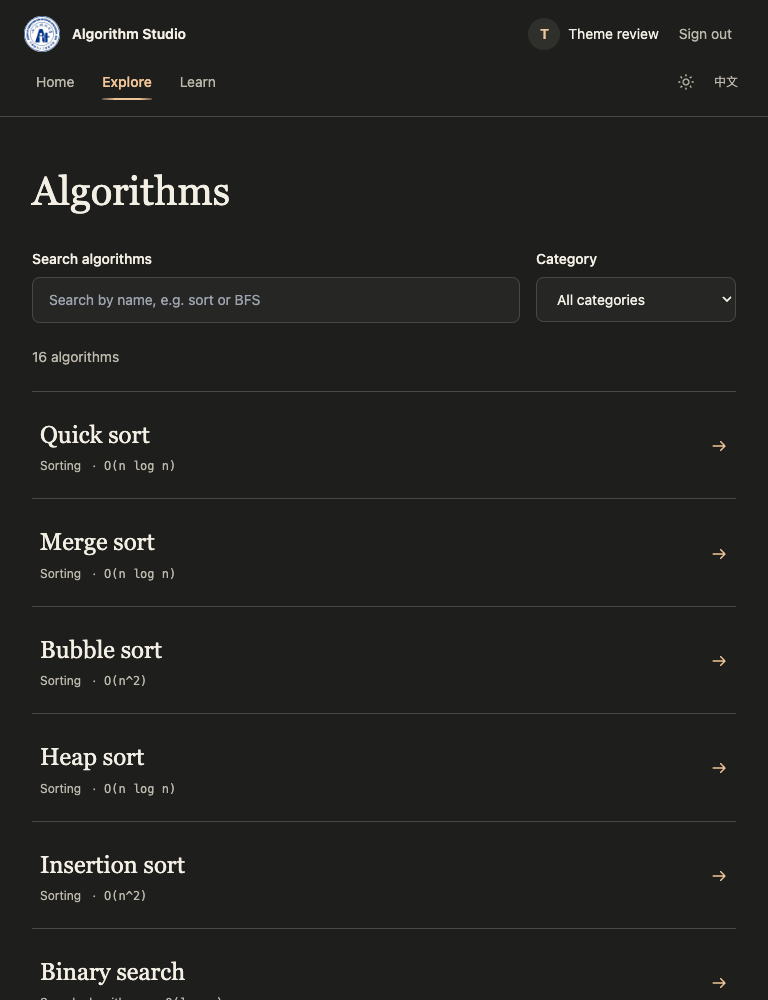
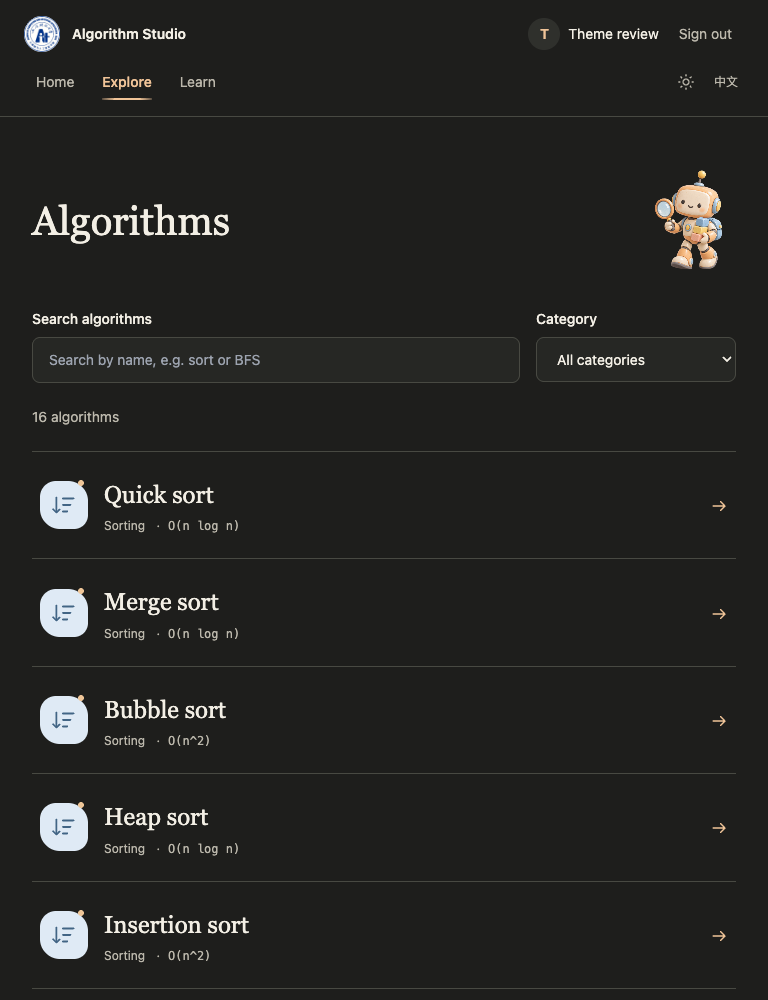
feat(ui): add original algorithm garden artwork and illustrated categories (#5)

diff --git a/frontend/src/styles.css b/frontend/src/styles.css
@@ -316,3 +316,47 @@ html[lang='en'] .control-progress { min-width: 120px; }
   .learning-heading { padding: 16px; }
 }
 @media (prefers-reduced-motion: reduce) { .algorithm-dropdown { animation: none; } }
+
+/* Original algorithm garden artwork and illustrated category marks. */
+.illustrated-hero { position: relative; isolation: isolate; overflow: hidden; border-radius: 12px; color: #263642; --ink: 38 54 66; --muted: 58 76 89; --accent-ink: 121 77 43; }
+.hero-art { position: absolute; inset: 0; z-index: -1; width: 100%; height: 100%; object-fit: cover; pointer-events: none; }
+.home-hero.illustrated-hero { display: flex; min-height: 440px; padding: 48px; margin: 0 0 32px; align-items: center; }
+.illustrated-hero .hero-copy { max-width: 560px; }
+.illustrated-hero .button-primary { color: #382719; background: #f6d2ae; }
+.illustrated-hero .text-link { color: #263642; }
+.home-lab { display: grid; grid-template-columns: minmax(0, .65fr) minmax(0, 1fr); gap: 48px; align-items: center; max-width: 880px; margin: 0 auto 32px; }
+.explorer-art { width: 200px; height: 260px; object-fit: contain; justify-self: center; }
+.home-lab .swap-playground { width: 100%; padding: 24px 0; }
+.auth-intro.illustrated-hero { padding: 32px; min-height: 540px; display: flex; flex-direction: column; justify-content: center; }
+.auth-intro .hero-art { object-position: 35% center; opacity: .8; }
+.auth-intro.illustrated-hero { background: #dceaf4; }
+.auth-intro .auth-equation { --viz-neutral: 223 234 245; --viz-compare: 255 240 190; --viz-swap: 228 215 236; position: relative; width: fit-content; background: rgb(255 254 251 / .88); border-radius: 12px; padding: 12px; gap: 8px; }
+.catalog-heading { display: flex; align-items: center; justify-content: space-between; gap: 24px; }
+.catalog-heading img { width: 88px; height: 112px; object-fit: contain; }
+.category-art { position: relative; display: inline-flex; align-items: center; justify-content: center; flex-shrink: 0; width: 48px; height: 48px; border-radius: 16px 20px 14px 20px; background: #dfeaf5; color: #426585; border: 1px solid rgb(66 101 133 / .12); }
+.category-art::after { content: ''; position: absolute; width: 6px; height: 6px; top: -2px; right: 3px; border-radius: 50%; background: #efc698; }
+.category-art app-ui-icon, .category-art app-ui-icon svg { width: 26px; height: 26px; color: inherit; }
+.category-art[data-art='search'], .category-art[data-art='cube'] { background: #f8dfbf; color: #85532c; }
+.category-art[data-art='target'], .category-art[data-art='branch'] { background: #e4d9ed; color: #755980; }
+.category-art[data-art='graph'], .category-art[data-art='backtrack'] { background: #e1ecda; color: #526f4e; }
+.category-art[data-art='grid'] { background: #faeec6; color: #806628; }
+.catalog-row { grid-template-columns: auto minmax(0, 1fr) auto; gap: 16px; }
+html[data-theme='dark'] .category-art { border-color: transparent; }
+@media (max-width: 1023px) {
+  .auth-intro.illustrated-hero { min-height: 360px; }
+}
+@media (max-width: 600px) {
+  .home-hero.illustrated-hero { min-height: 470px; padding: 24px; align-items: flex-start; }
+  .home-hero .hero-art { object-position: 65% center; opacity: .6; }
+  .home-hero.illustrated-hero { background: #dceaf4; }
+  .home-hero .hero-copy { position: relative; padding-bottom: 96px; }
+  .home-hero .hero-copy .mt-8 { margin-top: 24px; gap: 16px; }
+  .home-lab { grid-template-columns: minmax(0, 1fr); gap: 0; }
+  .explorer-art { width: 72px; height: 96px; justify-self: end; margin-bottom: 12px; }
+  .home-lab .swap-playground { padding-top: 0; }
+  .auth-intro.illustrated-hero { padding: 24px; min-height: 360px; }
+  .auth-intro .auth-equation { font-size: 18px; gap: 4px; }
+  .category-art { width: 36px; height: 36px; border-radius: 12px 16px 12px 16px; }
+  .category-art app-ui-icon, .category-art app-ui-icon svg { width: 22px; height: 22px; }
+  .catalog-row { gap: 12px; }
+}

diff --git a/frontend/src/app/components/learning-home/learning-home.component.html b/frontend/src/app/components/learning-home/learning-home.component.html
@@ -1,5 +1,6 @@
 <div class="page-content home-page">
-  <section class="home-hero">
+  <section class="home-hero illustrated-hero">
+    <img class="hero-art" src="assets/illustrations/algorithm-garden.png" width="1536" height="1024" alt="" fetchpriority="high">
     <div class="hero-copy">
       <p class="hero-count"><span class="math-type">{{ entryCount }}</span> {{ '个算法与数据结构演示' | t }}</p>
       <h2 class="display-title">{{ '看懂算法的' | t }}<br><span class="title-underline">{{ '每一步' | t }}<svg viewBox="0 0 240 14" aria-hidden="true"><path d="M3 9 Q 94 0 237 7 M19 13 Q 135 5 217 11" /></svg></span></h2>
@@ -8,6 +9,9 @@
         <button class="text-link" (click)="learn.emit('bubble-sort')">{{ '从冒泡排序开始' | t }} <app-ui-icon name="arrow-right" /></button>
       </div>
     </div>
+  </section>
+  <section class="home-lab">
+    <img class="explorer-art" src="assets/illustrations/algorithm-explorer.png" width="1024" height="1536" alt="" loading="lazy" decoding="async">
     <figure class="swap-playground" [attr.aria-label]="'冒泡排序的一次相邻交换' | t">
       <figcaption class="flex items-center justify-between gap-3 text-sm text-muted"><span>{{ '冒泡排序' | t }}</span><span class="math-type">28 &gt; 20</span></figcaption>
       <div class="swap-bars" role="img" [attr.aria-label]="(swapped ? '16、20、28、10、32，已交换，数组尚未排完' : '16、28、20、10、32，等待交换 28 和 20') | t">
@@ -37,7 +41,7 @@
     <h3 class="section-title mb-6">{{ '按分类查看' | t }}</h3>
     <div class="grid grid-cols-2 gap-x-6 sm:grid-cols-4">
       <button *ngFor="let group of groups" class="category-link flex items-center justify-between gap-2 border-b border-line py-4 text-left text-sm hover:text-accent-ink" (click)="browse.emit(group.category)">
-        <span class="inline-flex items-center gap-3"><app-ui-icon [name]="group.icon" />{{ (group.category === 'Web3D' ? '3D 数据结构' : group.category) | t }}</span><span class="math-type text-xs text-muted">{{ group.items.length }}</span>
+        <span class="inline-flex items-center gap-3"><span class="category-art" [attr.data-art]="group.icon"><app-ui-icon [name]="group.icon" /></span>{{ (group.category === 'Web3D' ? '3D 数据结构' : group.category) | t }}</span><span class="math-type text-xs text-muted">{{ group.items.length }}</span>
       </button>
     </div>
   </section>

diff --git a/frontend/src/app/components/algorithm-catalog/algorithm-catalog.component.html b/frontend/src/app/components/algorithm-catalog/algorithm-catalog.component.html
@@ -1,6 +1,6 @@
 <div class="page-content catalog-page">
 
-  <h2 class="page-title">{{ '算法目录' | t }}</h2>
+  <div class="catalog-heading"><h2 class="page-title">{{ '算法目录' | t }}</h2><img src="assets/illustrations/algorithm-explorer.png" width="96" height="128" alt="" decoding="async"></div>
 
   <div class="mt-8 grid gap-4 sm:grid-cols-[1fr_200px]">
     <div><label for="catalog-search" class="mb-2 block text-sm font-medium">{{ '搜索算法' | t }}</label><input id="catalog-search" type="search" [ngModel]="query()" (ngModelChange)="query.set($event)" [attr.placeholder]="'搜索名称，如：排序、BFS' | t" class="w-full rounded-md border border-line bg-surface px-4 py-3 text-sm"></div>
@@ -9,6 +9,7 @@
   <div class="my-6 flex items-center justify-between gap-3 text-sm text-muted"><p role="status">{{ '{0} 个算法' | t:[(filtered().length)] }}</p><button *ngIf="query() || category()" (click)="clear()" class="text-accent-ink underline underline-offset-4">{{ '清除筛选' | t }}</button></div>
   <div class="catalog-list">
     <button *ngFor="let item of filtered()" (click)="learn.emit(item.id)" class="catalog-row">
+      <span class="category-art" [attr.data-art]="item.icon"><app-ui-icon [name]="item.icon" /></span>
       <div class="min-w-0"><h3 class="catalog-title">{{ (item.label) | t }}</h3><p class="mt-1 text-xs text-muted">{{ (item.category === 'Web3D' ? '3D 数据结构' : item.category) | t }} <span class="mx-2" aria-hidden="true">·</span><span class="font-mono">{{ item.complexity }}</span></p></div>
       <span class="text-accent-ink"><app-ui-icon name="arrow-right" /></span>
     </button>

diff --git a/frontend/src/app/components/auth/auth.component.html b/frontend/src/app/components/auth/auth.component.html
@@ -1,6 +1,7 @@
 <div class="auth-preferences"><app-display-preferences /></div>
 <main class="auth-layout">
-  <section class="auth-intro">
+  <section class="auth-intro illustrated-hero">
+    <img class="hero-art" src="assets/illustrations/algorithm-garden.png" width="1536" height="1024" alt="" fetchpriority="high">
     <div class="mb-8 flex items-center gap-3"><span class="college-emblem college-emblem-large"><img src="assets/branding/college-logo.png" width="514" height="84" [attr.alt]="'计算机与人工智能学院院徽' | t"></span><h1 class="text-base font-semibold">{{ '算法可视化学习平台' | t }}</h1></div>
 
     <h2 class="display-title">{{ '看懂算法的' | t }}<br><span class="title-underline">{{ '每一步' | t }}<svg viewBox="0 0 240 14" aria-hidden="true"><path d="M3 9 Q 94 0 237 7 M19 13 Q 135 5 217 11" /></svg></span></h2>

diff --git a/frontend/src/app/components/algorithm-catalog/algorithm-catalog.component.ts b/frontend/src/app/components/algorithm-catalog/algorithm-catalog.component.ts
@@ -15,7 +15,7 @@ import { AlgorithmId } from '../../models/algorithm.models';
 })
 export class AlgorithmCatalogComponent {
   readonly groups = ALGORITHM_GROUPS;
-  readonly entries = ALGORITHM_GROUPS.flatMap(group => group.items.map(item => ({ ...item, category: group.category })));
+  readonly entries = ALGORITHM_GROUPS.flatMap(group => group.items.map(item => ({ ...item, category: group.category, icon: group.icon })));
   readonly query = signal('');
   readonly category = signal('');
   @Input() set initialCategory(value: string) { this.category.set(value); }

diff --git a/frontend/src/assets/illustrations/GARDEN-PROMPTS.md b/frontend/src/assets/illustrations/GARDEN-PROMPTS.md
@@ -1,0 +1,11 @@
+# Algorithm garden assets
+
+Generated with the built-in image_gen tool on 2026-09-09. Original outputs copied into this directory; no external image service is required at runtime. Both images are decorative; interface text remains HTML and supports Chinese/English. The existing school emblem is unchanged. Category marks use the existing local SVG icon component with eight pastel treatments.
+
+## algorithm-garden.png
+
+Use case: stylized-concept. Asset type: wide landscape hero illustration for an algorithm learning website. Create an original beautifully art-directed dreamy 'algorithm garden in the clouds': soft powder-blue sky, warm ivory and pale apricot clouds, a small moon, floating pastel ceramic islands on the right containing ascending rounded sorting bars, a branching tree of connected spheres and a tiny winding maze. Charming subtle storybook/3D clay hybrid illustration, sophisticated university educational website, calm and playful, not childish clipart. Wide 3:2 composition. Left half mostly open quiet pale blue sky for dark heading overlay, important subject concentrated right and lower right. Palette powder blue, apricot, butter yellow, muted lilac and sage. Soft daylight, crisp readable silhouettes. No text, letters, numbers, logo, watermark, UI or borders. This is background artwork, not a website screenshot.
+
+## algorithm-explorer.png
+
+Use case: stylized-concept. Asset type: transparent decorative mascot for an algorithm learning website. An original small friendly apricot ceramic robot explorer, rounded square head, two tiny charcoal dot eyes, small smile, powder blue tiny backpack, holding a magnifying glass with one hand and a small stack of three pastel sorting blocks with the other. Full body three-quarter view. Premium charming clay storybook illustration, soft ivory highlights, muted apricot, pale blue and butter yellow. Simple bold silhouette readable at 100 pixels. Centered with generous clear margins. Genuine transparent background, no ground plane, no backdrop, no lettering, no logo, no watermark. Not a known brand character.

diff --git a/docs/issue-5-delivery.md b/docs/issue-5-delivery.md
@@ -149,3 +149,13 @@ npm run test:e2e
 | 390px | [展开菜单](screenshots/issue-5/top-navigation/menu-light-zh-390.png) | [展开菜单](screenshots/issue-5/top-navigation/menu-dark-en-390.png) |
 | 768px | [展开菜单](screenshots/issue-5/top-navigation/menu-light-zh-768.png) | [展开菜单](screenshots/issue-5/top-navigation/menu-dark-en-768.png) |
 | 1440px | [展开菜单](screenshots/issue-5/top-navigation/menu-light-zh-1440.png) | [展开菜单](screenshots/issue-5/top-navigation/menu-dark-en-1440.png) |
+
+## 2026-09-09 原创主题图与图标资源
+
+- 新增“云中算法花园”主题图：首页首屏与登录页采用同一幅粉彩天空、排序阶梯、树节点与迷宫插画；文字仍由页面渲染，支持中英文。
+- 新增透明背景机器人插画，用于首页交换示例与目录标题旁。原有三张算法卡片插画保留。
+- 首页分类与目录列表使用八类粉彩图标标记，复用本地 SVG 图标组件；播放按钮和学院标识保持原有语义。
+- 装饰图片使用空替代文本，主题图优先加载，下方插画延迟加载；图片不设置持续动画。深色模式下主题画面保留日光色调，页面其余区域使用深色主题。
+- 使用内置 image_gen 生成并保存原始 PNG：[主题图](../frontend/src/assets/illustrations/algorithm-garden.png)、[机器人](../frontend/src/assets/illustrations/algorithm-explorer.png)。[完整生成提示词](../frontend/src/assets/illustrations/GARDEN-PROMPTS.md)。两张素材共约 3 MB，均随应用本地托管。
+
+验证：生产构建、14 项单元测试、23 项浏览器测试通过。人工检查中文浅色首页、目录，以及英文深色首页和登录页；随后修正手机端机器人与数字间距、深色登录数字对比度，重新通过相关 7 项浏览器测试及生产构建。覆盖 390/768/1440px，现有页面截图已更新。
